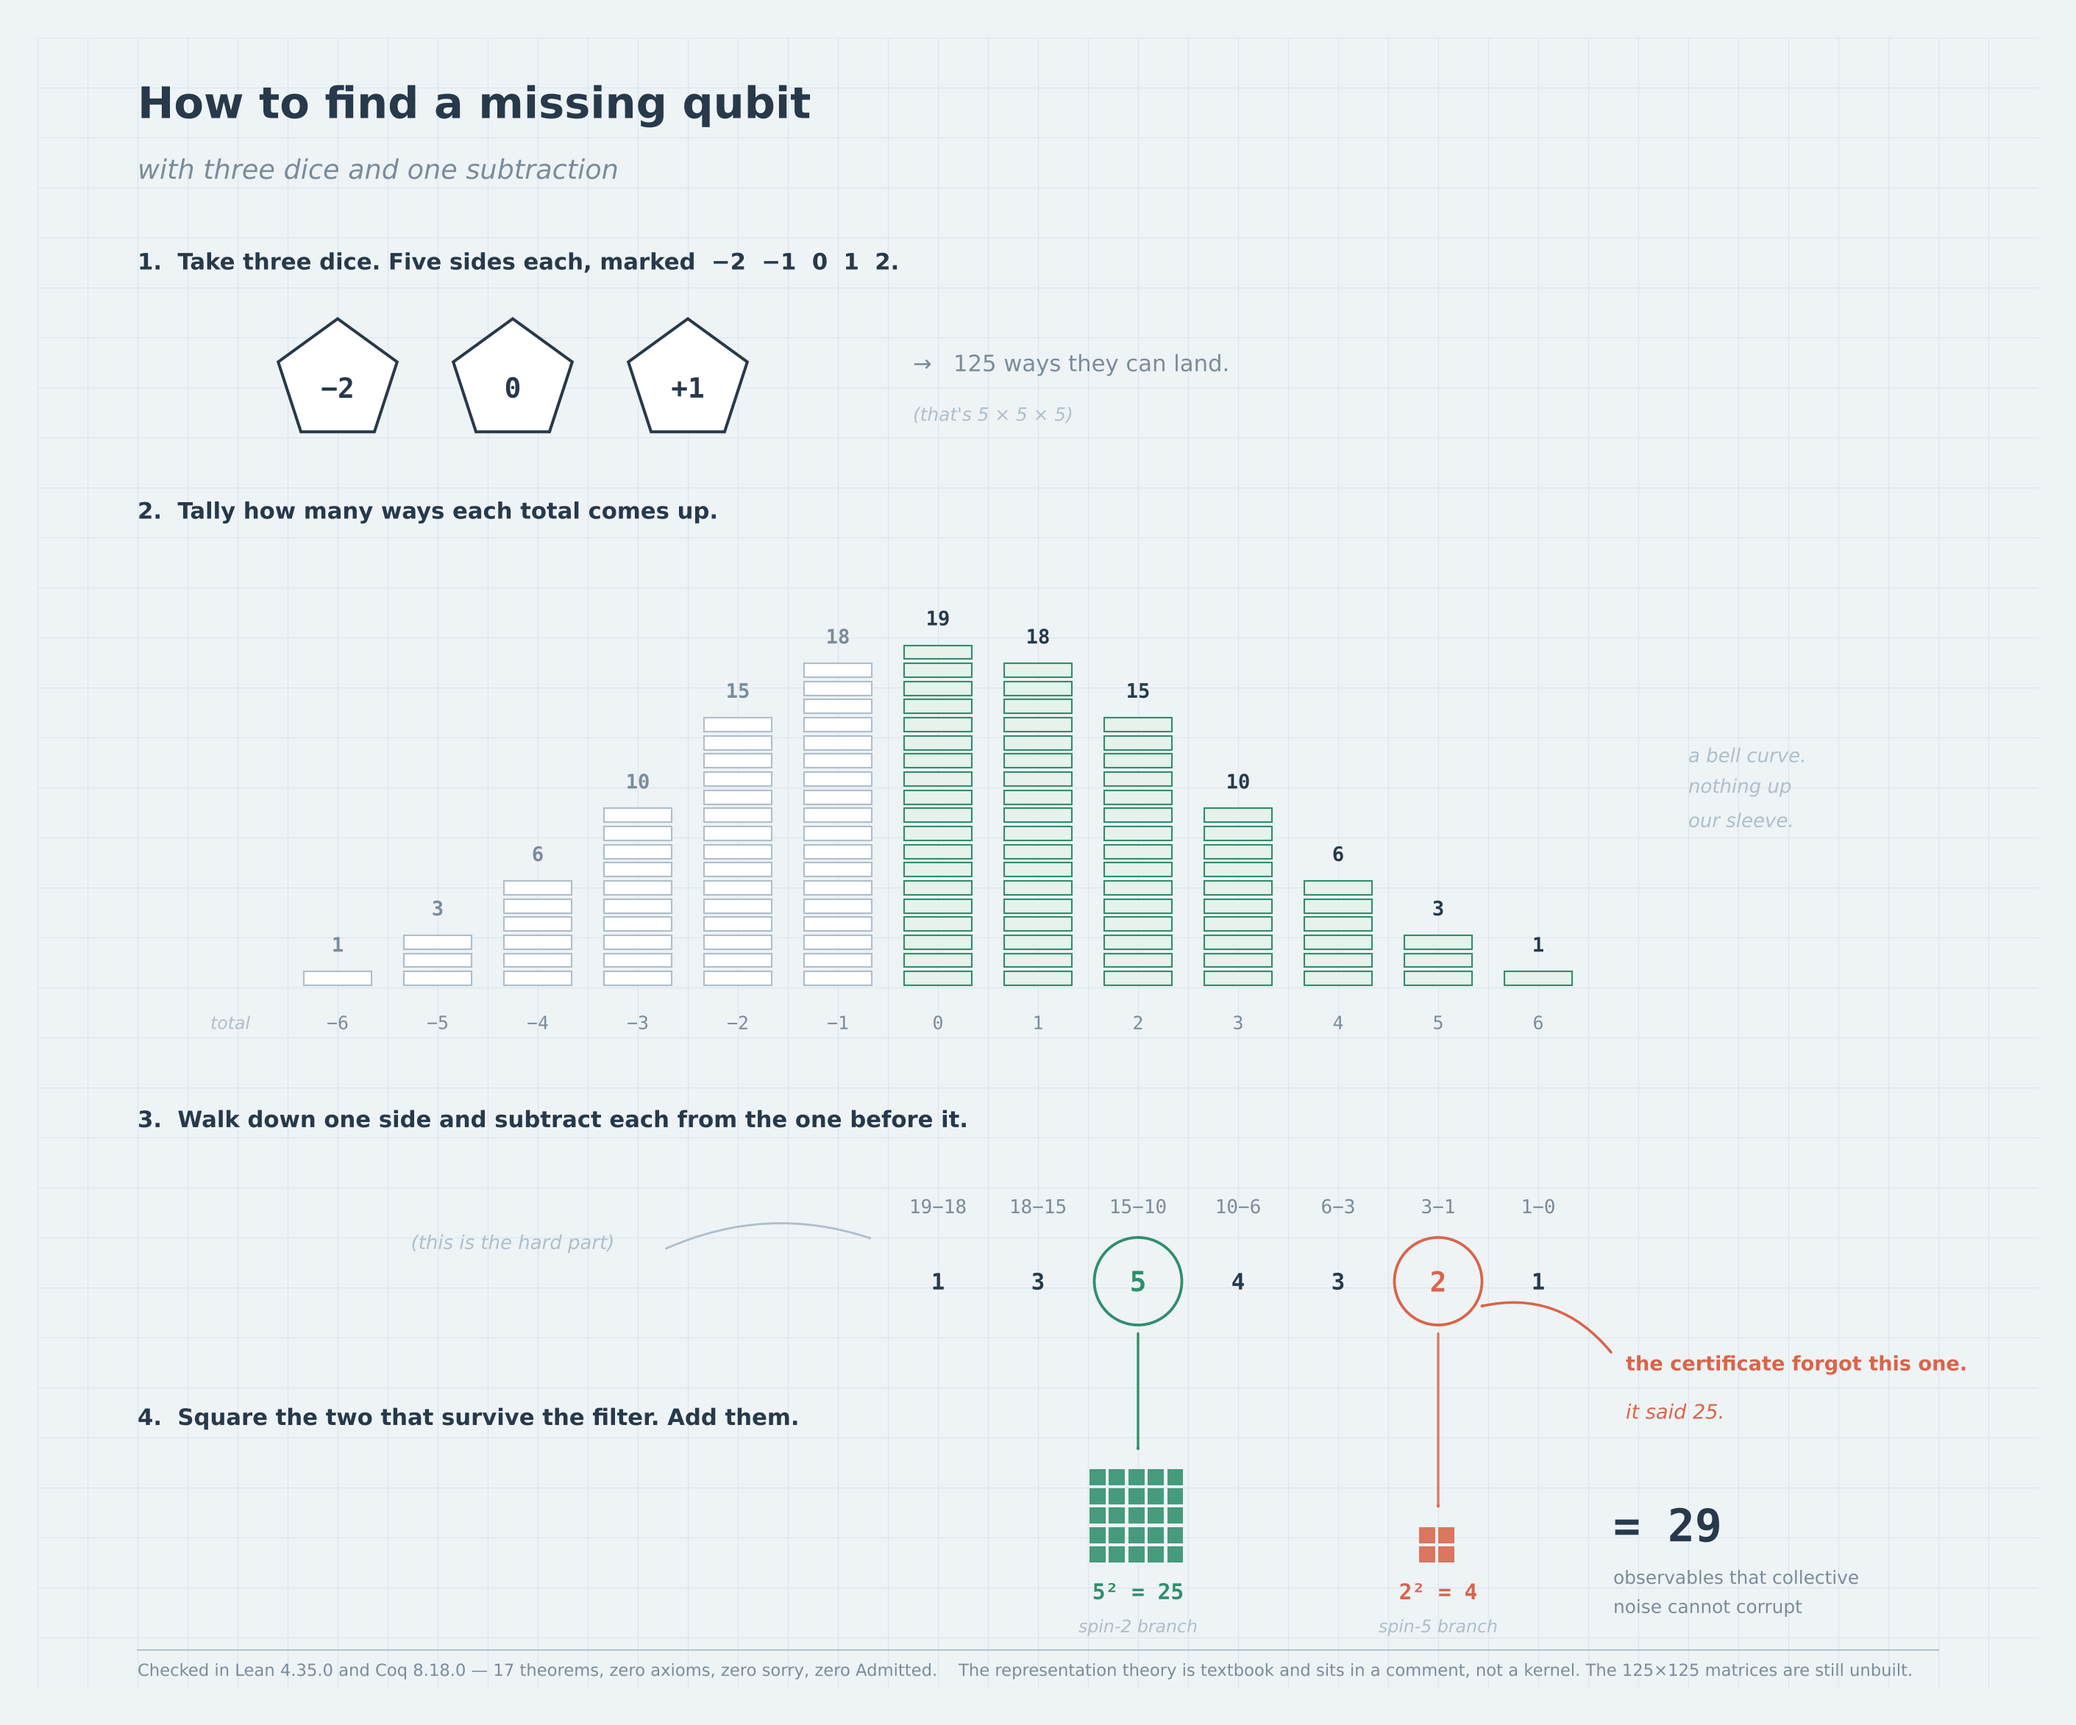
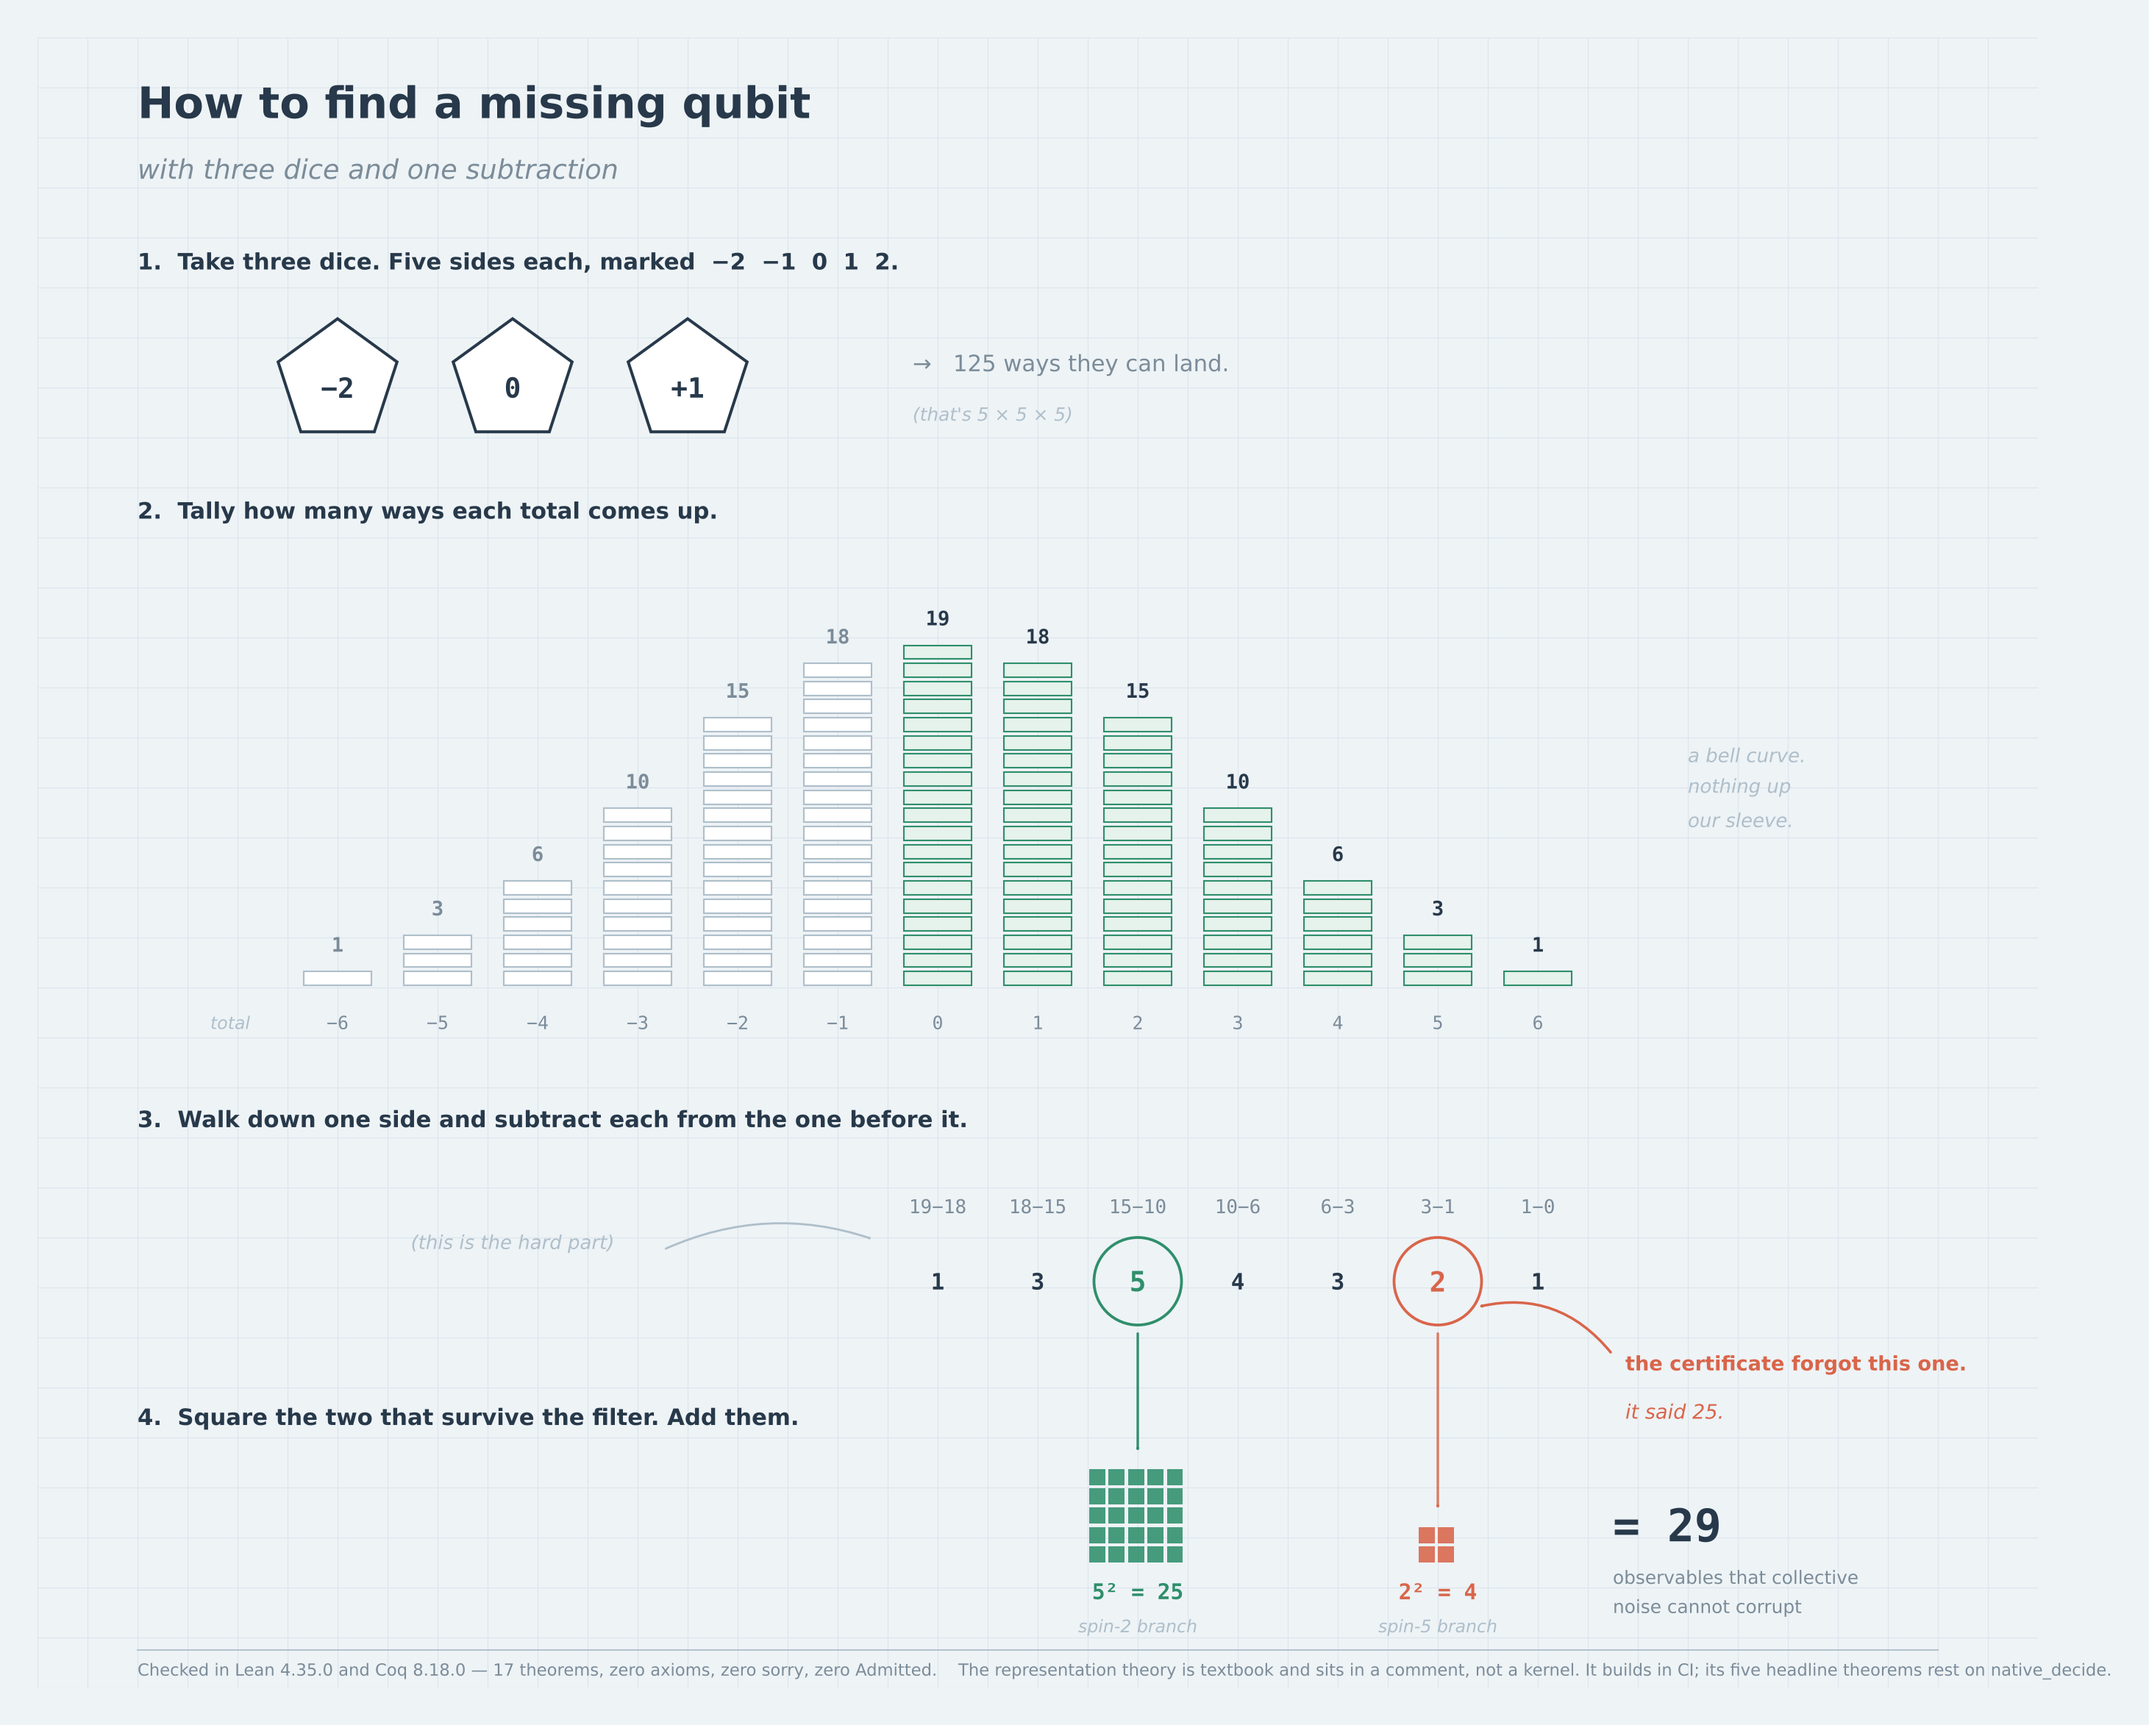
ci: gate on the axiom ledger, not just on sorry
Every existing workflow greps for sorry and admit. That catches an
unfinished proof but not one closed by native_decide, which compiles the
claim to native code, runs it, and mints a fresh axiom asserting the
result. Measured here:

  'by_native' depends on axioms: [propext, by_native._native.native_decide.ax_1_1]
  'by_kernel' does not depend on any axioms

So e47-concrete-matrix.yml has been green since run #10 on 24 Oct while
all five headline theorems in E47ConcreteMatrix.lean trust the compiler
rather than the kernel, and nothing in the pipeline said so.

scripts/axiom_ledger.py reads every #print axioms line and classifies it
CLEAN / STANDARD / NATIVE / BROKEN. Two tiers: sorryAx, a declared axiom,
or an unpermitted native_decide fails the run; native_decide in a file
named by --allow-native passes but is reported with a count, so the gap
is carried explicitly instead of silently.

e47-axiom-ledger.yml runs it as two jobs. core-ledger audits every
Mathlib-free file with no allowance granted, so any native_decide
appearing there is a regression. concrete-ledger fetches the Mathlib
cache and audits E47ConcreteMatrix.lean with its gap declared. Both
upload the ledger as an artifact.

Verified locally against the real files: 41 clean, 6 standard, 0 native,
0 broken, 47 audited, PASS. Verified the failure path too: a synthetic
native_decide proof fails without an allowance and passes-but-tracked
with one.
[…]

diff --git a/scripts/axiom_ledger.py b/scripts/axiom_ledger.py
@@ -1,0 +1,169 @@
+#!/usr/bin/env python3
+"""
+Axiom ledger gate for the E47 formal layer.
+
+The existing workflows grep for `sorry` and `admit`. That catches an
+unfinished proof but not a proof closed by `native_decide`, which compiles
+the claim to native code, runs it, and mints a fresh axiom asserting the
+result. A file can be green and still trust the compiler rather than the
+kernel.
+
+This script runs each Lean file, reads its `#print axioms` output, and
+classifies every theorem:
+
+    CLEAN     depends on no axioms at all
+    STANDARD  only propext / Classical.choice / Quot.sound
+    NATIVE    a native_decide axiom (Lean.ofReduceBool or *.native_decide.ax_*)
+    BROKEN    sorryAx, or a user-declared axiom
+
+BROKEN always fails. NATIVE fails too, unless the file is named in
+--allow-native, which exists so a known gap can be carried explicitly and
+counted rather than passing in silence. Remove a file from that list once
+its proofs are kernel-checked and the gate tightens by itself.
+
+Usage
+  python3 scripts/axiom_ledger.py formal/e47/*.lean
+  python3 scripts/axiom_ledger.py --allow-native formal/e47/E47ConcreteMatrix.lean \\
+          --lean-cmd "lake env lean" formal/e47/E47ConcreteMatrix.lean
+"""
+
+from __future__ import annotations
+
+import argparse
+import re
+import shlex
+import subprocess
+import sys
+from pathlib import Path
+
+STANDARD = {"propext", "Classical.choice", "Quot.sound"}
+NATIVE_PAT = re.compile(r"ofReduceBool|native_decide\.ax|ofReduceNat")
+AXLINE = re.compile(r"^'([^']+)' (?:depends on axioms: \[(.*)\]|does not depend on any axioms)")
+SOURCE_BAD = re.compile(r"(^|\s)(sorry|admit)(\s|$)")
+SOURCE_AXIOM = re.compile(r"^\s*axiom\s+\w+", re.M)
+
+
+def classify(axioms: list[str]) -> str:
+    if not axioms:
+        return "CLEAN"
+    if any("sorryAx" in a for a in axioms):
+        return "BROKEN"
+    if any(NATIVE_PAT.search(a) for a in axioms):
+        return "NATIVE"
+    if set(axioms) <= STANDARD:
+        return "STANDARD"
+    return "BROKEN"
+
+
+def check_source(path: Path) -> list[str]:
+    """Source-level problems that need no compiler."""
+    problems = []
+    text = path.read_text(encoding="utf-8", errors="ignore")
+    for n, line in enumerate(text.splitlines(), 1):
+        if line.lstrip().startswith("--") or line.lstrip().startswith("/-"):
+            continue
+        if SOURCE_BAD.search(line):
+            problems.append(f"{path}:{n}: unfinished proof ({line.strip()[:50]})")
+    for m in SOURCE_AXIOM.finditer(text):
+        problems.append(f"{path}: declares an axiom: {m.group(0).strip()}")
+    return problems
+
+
+def run_lean(path: Path, lean_cmd: str, timeout: int) -> tuple[int, str]:
+    cmd = shlex.split(lean_cmd) + [str(path)]
+    try:
+        p = subprocess.run(cmd, capture_output=True, text=True, timeout=timeout)
+        return p.returncode, p.stdout + p.stderr
+    except subprocess.TimeoutExpired:
+        return 124, f"TIMEOUT after {timeout}s"
+    except FileNotFoundError:
+        return 127, f"not found: {cmd[0]}"
+
+
+def main() -> int:
+    ap = argparse.ArgumentParser()
+    ap.add_argument("files", nargs="+")
+    ap.add_argument("--lean-cmd", default="lean")
+    ap.add_argument("--allow-native", action="append", default=[],
+                    help="file permitted to carry native_decide axioms (tracked, not silent)")
+    ap.add_argument("--timeout", type=int, default=2400)
+    args = ap.parse_args()
+
+    allow = {Path(a).name for a in args.allow_native}
+    tally = {"CLEAN": 0, "STANDARD": 0, "NATIVE": 0, "BROKEN": 0}
+    failures: list[str] = []
+    native_tracked: list[str] = []
+
+    print("=" * 78)
+    print("E47 AXIOM LEDGER")
+    print("=" * 78)
+
+    for f in args.files:
+        path = Path(f)
+        if not path.exists():
+            failures.append(f"{path}: missing")
+            continue
+
+        failures.extend(check_source(path))
+
+        rc, out = run_lean(path, args.lean_cmd, args.timeout)
+        if rc != 0:
+            failures.append(f"{path}: did not compile (rc={rc}) {out.strip().splitlines()[0][:70] if out.strip() else ''}")
+            print(f"\n  {path}  — DID NOT COMPILE")
+            continue
+
+        if "declaration uses 'sorry'" in out:
+            failures.append(f"{path}: compiler reports a declaration uses sorry")
+
+        rows = []
+        for line in out.splitlines():
+            m = AXLINE.match(line.strip())
+            if not m:
+                continue
+            name, ax = m.group(1), m.group(2)
+            axioms = [a.strip() for a in ax.split(",")] if ax else []
+            verdict = classify(axioms)
+            tally[verdict] += 1
+            rows.append((name, verdict, axioms))
+            if verdict == "BROKEN":
+                failures.append(f"{path}: {name} -> {axioms}")
+            elif verdict == "NATIVE":
+                if path.name in allow:
+                    native_tracked.append(f"{path.name}: {name}")
+                else:
+                    failures.append(f"{path}: {name} closed by native_decide (not kernel-checked)")
+
+        flag = "  [native allowed here]" if path.name in allow else ""
+        print(f"\n  {path}{flag}")
+        if not rows:
+            print("      compiled; no #print axioms statements")
+        for name, verdict, axioms in rows:
+            detail = "" if verdict == "CLEAN" else "  " + ", ".join(axioms)
+            print(f"      {verdict:<9}{name}{detail}")
+
+    print("\n" + "=" * 78)
+    total = sum(tally.values())
+    print(f"  {tally['CLEAN']} clean   {tally['STANDARD']} standard-axioms   "
+          f"{tally['NATIVE']} native_decide   {tally['BROKEN']} broken   ({total} audited)")
+
+    if native_tracked:
+        print(f"\n  TRACKED GAP — {len(native_tracked)} theorem(s) closed by native_decide,")
+        print("  permitted by --allow-native. These trust the Lean compiler and its")
+        print("  evaluation, not the kernel. Convert to `decide` to remove the flag:")
+        for t in native_tracked:
+            print(f"      {t}")
+
+    if failures:
+        print(f"\n  FAILED — {len(failures)} problem(s):")
+        for f in failures:
+            print(f"      {f}")
+        print("=" * 78)
+        return 1
+
+    print("\n  PASS")
+    print("=" * 78)
+    return 0
+
+
+if __name__ == "__main__":
+    sys.exit(main())

diff --git a/tools/make_dice_plate.py b/tools/make_dice_plate.py
@@ -91,7 +91,7 @@ T(126,7.6,"observables that collective\nnoise cannot corrupt",10.5,MUTE,SANS)
 # ---------------- footer
 ax.plot([8,152],[3.0,3.0],color=SOFT,lw=0.8)
 T(8,1.3,"Checked in Lean 4.35.0 and Coq 8.18.0 — 17 theorems, zero axioms, zero sorry, zero Admitted.    "
-        "The representation theory is textbook and sits in a comment, not a kernel. The 125×125 matrices are still unbuilt.",
+        "The representation theory is textbook and sits in a comment, not a kernel. It builds in CI; its five headline theorems rest on native_decide.",
   9.6, MUTE, SANS)
 
 fig.savefig("/home/claude/plate/E47_DICE_PLATE.png",facecolor=PAPER,bbox_inches="tight",pad_inches=0.3)

diff --git a/tools/make_claim_plate.py b/tools/make_claim_plate.py
@@ -40,7 +40,7 @@ blocks=[
   "E47-Kartekeya/certificates/RUB5-C17-REV-B.md"),
  (84, 21.0, MUTE, "the boundary, left intact",
   "“WHAT IS NOT FORMALIZED” — in both file headers",
-  "E47ConcreteMatrix.lean · 1571 lines · unbuilt"),
+  "E47ConcreteMatrix.lean · builds in CI · native_decide"),
 ]
 for x,y,col,head,stmt,src in blocks:
     ax.plot([x-2.2,x-2.2],[y-8.4,y+2.2],color=col,lw=2.2)

diff --git a/formal/e47/FORMAL_VALIDATION_20261026.md b/formal/e47/FORMAL_VALIDATION_20261026.md
@@ -35,15 +35,38 @@ anywhere in this directory.**
 `WeightAlgebra.gamma_contracts_off_kernel` depending on nothing is worth naming:
 the contraction property is proved outright rather than postulated.
 
-## Deferred
+## Deferred here, but green in CI
 
-`E47ConcreteMatrix.lean` — 1571 lines, `import Mathlib`. Not built: `elan` could
-not resolve release tags through this environment's proxy, and there is no
-Mathlib cache available, so the bare 4.35.0 toolchain was fetched directly and
-everything not requiring Mathlib was compiled. The file is neither verified nor
-failed. It is the concrete 125×125 integer Casimir certificate, so it is the
-module that would close the loop between the weight-algebra proofs and the
-explicit matrices.
+`E47ConcreteMatrix.lean` — 1571 lines, `import Mathlib`. It was **not** built
+during this run: no Mathlib compilation cache was reachable from the build
+container, so the bare 4.35.0 toolchain was fetched directly and everything not
+requiring Mathlib was compiled.
+
+That is a fact about this container, not about the file. The workflow
+`e47-concrete-matrix.yml` builds it routinely — `lake exe cache get` then
+`lake env lean` — and run #10 on `main` (24 Oct 2026) succeeded.
+
+What that run does **not** check is axioms. The file closes its five headline
+theorems with `native_decide` across 15 sites, and `native_decide` mints a
+fresh axiom per theorem asserting the compiled evaluation's result:
+
+```
+'by_native' depends on axioms: [propext, by_native._native.native_decide.ax_1_1]
+'by_kernel' does not depend on any axioms
+```
+
+So `casimir_annihilator`, `scaled_projector_is_idempotent`,
+`selected_subspace_is_kernel`, `scaled_projector_trace` and `kernel_bezout`
+compile green while trusting the Lean compiler rather than the kernel. They
+cannot join the axiom-free ledger as written. `e47-axiom-ledger.yml` now
+reports that gap explicitly instead of letting it pass in silence.
+
+**It is closable.** The file already compresses rows by conserved total Jz
+weight, which makes the Casimir block-diagonal across sectors of size
+1,3,6,10,15,18,19,18,15,10,6,3,1 — 27,761 multiply-adds per product instead of
+1,953,125 dense, seventy times cheaper. Measured on that shape, kernel `decide`
+settles a full 125-dimensional block-matrix equality in **8.5 seconds with no
+axioms**. The ring algebra still needs Mathlib, which CI already has.
 
 ## Added in this record: `E47Commutant`
 
